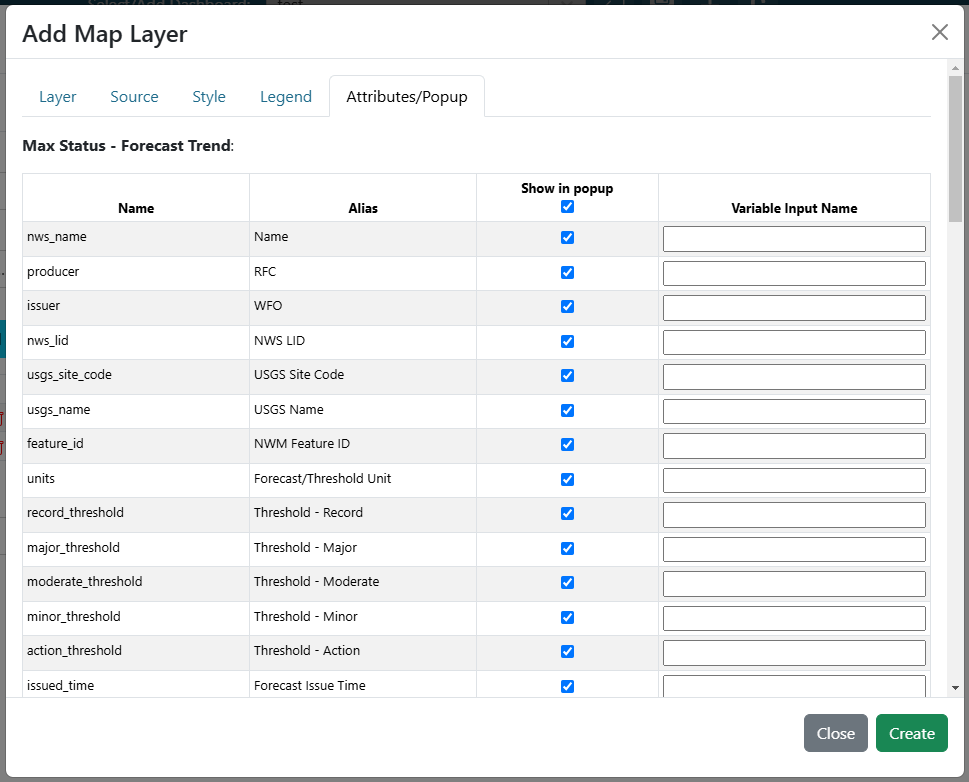
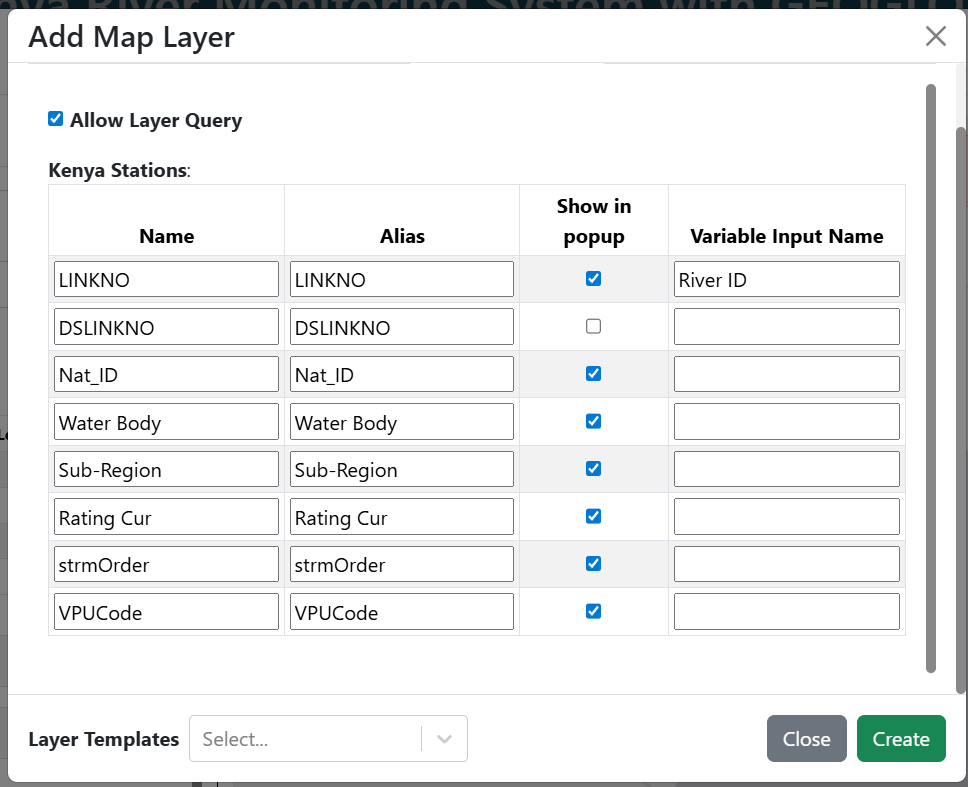
updated maps information

diff --git a/docs/source/maps/create_map.rst b/docs/source/maps/create_map.rst
@@ -21,8 +21,14 @@ Base Map
 
 A list of available basemaps to use with the map. 
 
+-------------------
+Layer Controls
+-------------------
+
+This setting determines if a layer control panel will be shown in the map. This panel allows users to toggle layer visibility in the map.
+
 -----------------
-Additional Layers
+Layers
 -----------------
 
 A table summarizing the configured layers for the map. To add a new layer, click on the "Add Layer" button and add 
@@ -31,11 +37,19 @@ deleted or editted. See the :ref:`layer_configuration` section for more informat
 
 Layers in this table can also be moved to switch order of rendering.
 
--------------------
-Show Layer Controls
--------------------
+----------------
+Map Extent
+----------------
 
-This setting determines if a layer control panel will be shown in the map. This panel allows users to toggle layer visibility in the map.
+This allows you to choose either "Use the Previewed Map Extent" or "Use a Custom Extent". If you choose to use the previewed map extent, your map will automatically zoom to the extent that you currently have displayed in the map. If you choose to use a custom extent, you will be given the option to enter the minimum and maximum latitude and longitude values for the map extent. Then you can aslo add an extent variable name.
+
+----------------
+Map Drawing
+----------------
+
+Map drawing allows used to draw on the map. You can choose to place a limit on the number items users can draw under "Drawn Feature Limit". You can select what types of shapes users are able to draw on the map by chooseing the checkbox for allowed types. The options are Point, LineString, Polygon and Rectangle. The map drawings can be saved as a variable name which allows the drawings to be used in other visualizations.
+
+
 
 
 

diff --git a/docs/source/variable_inputs.rst b/docs/source/variable_inputs.rst
@@ -32,6 +32,10 @@ To setup a variable input, perform the following:
         - **text:** This will create a text based HTML input with a visualization refresh button. 
         - **number:** This will create a number based HTML input with a visualization refresh button.
         - **checkbox:** This will create a checkbox HTML input.
+        - **date:** This will create a date picker HTML input with a visualization refresh button. Enter a default value by selecting on the calendar.
+        - **date-hour:"** Same as above, but there will also be an option to select he time.
+        - **slider:** This will create a slider HTML input. You will have the option to choose between "Single Value" or "Range". Then you can choose the data type to either be a "number" or "date". You will then select the minimum and maximum values for the slider along with the step side. For "Single Value" you will choose an initial value. For "Range" you will choose an range start and range end value. In both cases you will get to choose the output format.
+        - **csv uploader:** This will create a file uploader HTML input that only accepts CSV files. You can choose the CSV columns by entering a value in "CSV Columns" and hitting enter.
         - **EXISTING VISUALIZATION INPUTS:** The options under this item are derived from arguments for installed visualization plugins. Selecting one of these options will imitate the visualization argument but make it a variable input.
 
 .. image:: ../images/variable_input_setup.png

diff --git a/docs/source/maps/layer_tab.rst b/docs/source/maps/layer_tab.rst
@@ -9,6 +9,8 @@ tab are based on the `Openlayers Layer class <https://openlayers.org/en/latest/a
 
 **Name:** Determines the map layer name. This is what will be shown in the layer contol menu and in the summary table.
 
+**Default Visibility:** This allows you to choose if the layer will be visible by default when the map is first loaded.
+
 **Layer Properties:**
     - **Opacity:** Determines the transparency of the layer. Must be a number or float between 0 and 1.
     - **minResolution:** The minimum resolution (inclusive) at which this layer will be visible.
@@ -16,3 +18,5 @@ tab are based on the `Openlayers Layer class <https://openlayers.org/en/latest/a
     - **minZoom:** The minimum view zoom level (exclusive) above which this layer will be visible.
     - **maxZoom:** The maximum view zoom level (inclusive) at which this layer will be visible.
     - **minZoomQuery** The minimum view zoom level (inclusive) at which this layer can be queried. If the mp is clicked beyond the zoom level, then the map will zoom into the minZoomQuery value.
+
+    **Layer Template:** At the bottom of all the tabs is the option to choose a layer template. This will load in a layer that is preconfigured. There is a dropdown menu to choose between a couple layer options.

diff --git a/docs/source/maps/legend_tab.rst b/docs/source/maps/legend_tab.rst
@@ -4,10 +4,9 @@
 Legend Tab
 ----------
 
-The legend tab is used to configure a custom legend that will be show in the map legend menu. Legends for a specific 
-layer can be toggled on or off. 
+The legend tab is used to configure a custom legend that will be show in the map legend menu. Legends for a specific layer can be toggled on or off. Users can choose to have "No Legend". "Default Legend" or "Custom Legend".
 
-If a layer's legend is turned on, then users will need to provide a legend title and at least 1 legend item. New legend 
+If a layer's legend is set to custom legend, then users will need to provide a legend title and at least 1 legend item. New legend 
 items can be added using the "Add Legend Item" button. Legend items can then be configured with a 
 label and a symbol.
 
@@ -20,3 +19,4 @@ layer symbols and colors to choose from.
 |
 
 
+If default legend is selected, then if there is a default legend associated with the layer it will be shown.

diff --git a/docs/source/maps/attributes_and_popups_tab.rst b/docs/source/maps/attributes_and_popups_tab.rst
@@ -6,7 +6,9 @@ Attributes/Popup Tab
 
 The Attributes/Popup tab is used to configure the interaction with the layer in the map once it is clicked.
 **After the layer name and required source properties are configured**, then a table of layers and their attributes 
-will be shown. 
+will be shown.
+
+A checkbox at the top of the tab says "Allow Layer Query", which enables click interaction for the layer. If the checkbox is unchecked, no table of attrbute will load because the layer will now be queriable.
 
 Within this table, fields can be configured to handle click interaction in 2 ways:
 
